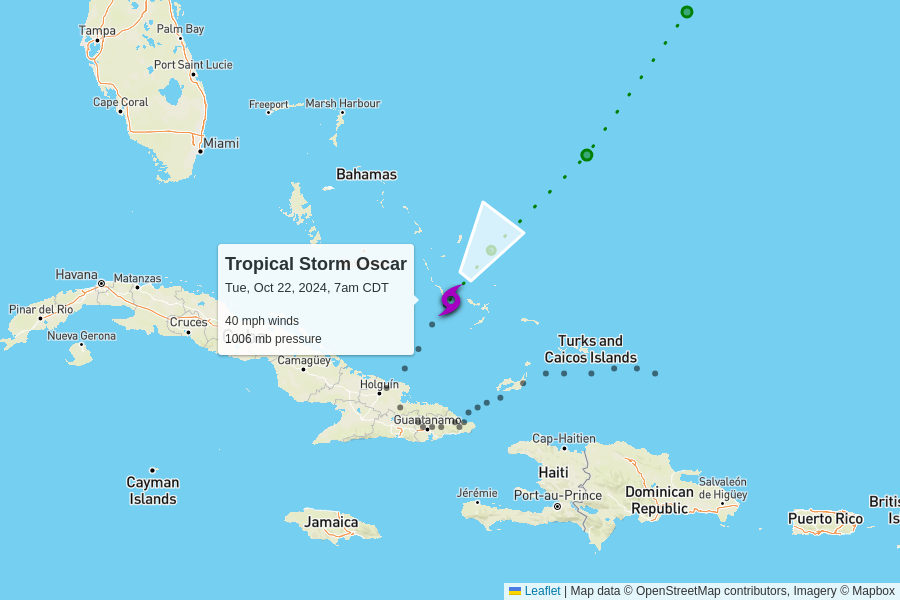
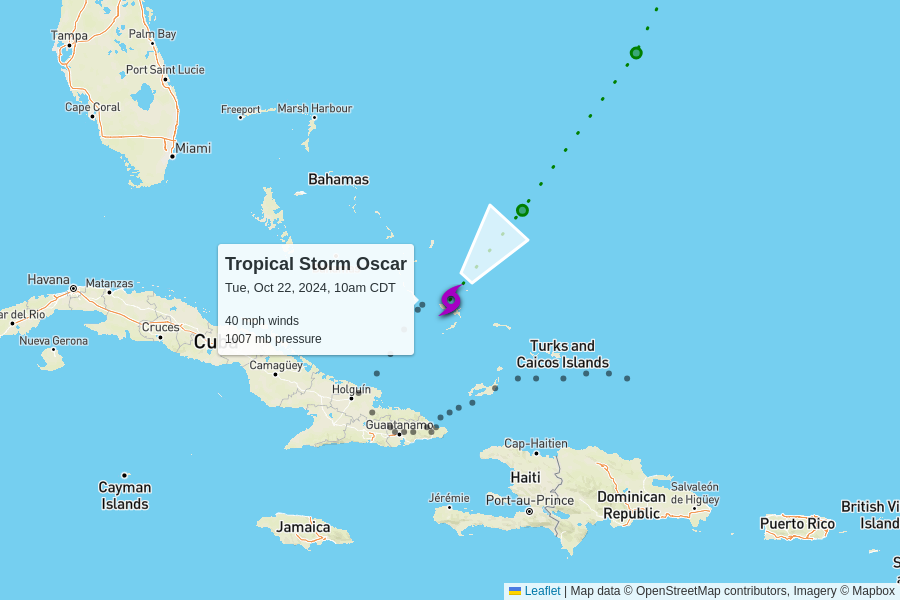
automatic update

diff --git a/docs/index.html b/docs/index.html
@@ -102,7 +102,7 @@
         <td colspan="6" class="storm category-0" >
           <h2>
             Tropical Storm Oscar
-            <p class="updated">last updated <span data-time>2024-10-22T12:00:00.000Z</span></p>
+            <p class="updated">last updated <span data-time>2024-10-22T15:00:00.000Z</span></p>
           </h2>
         </td>
       </tr>
@@ -118,11 +118,11 @@
       <tr>
         <td class="spacer"></td>
         <td>40 mph<br>0 mph since last update</td>
-        <td>1006 mb<br>0 mb since last update</td>
+        <td>1007 mb<br>+1 mb since last update</td>
         <td>
           12 mph to the northeast
           <br/>
-          <span style="display: inline-block; font-size: 1.5em; transform: rotate(35deg);">↑</span>
+          <span style="display: inline-block; font-size: 1.5em; transform: rotate(40deg);">↑</span>
         </td>
         <td><a href="https://raw.githubusercontent.com/mgwalker/atlantic-hurricanes/main/data/csv/AL162024.csv">AL162024.csv</a></td>
         <td><a href="https://www.nhc.noaa.gov/archive/2024/OSCAR.shtml?">NHC advisories</a></td>
